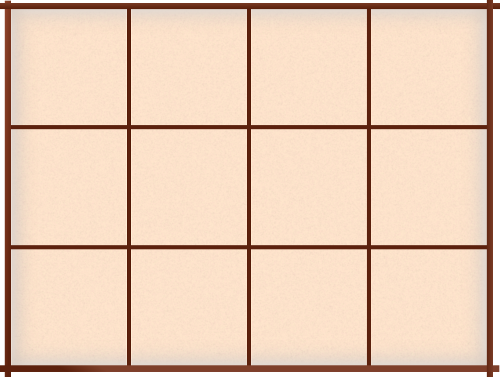
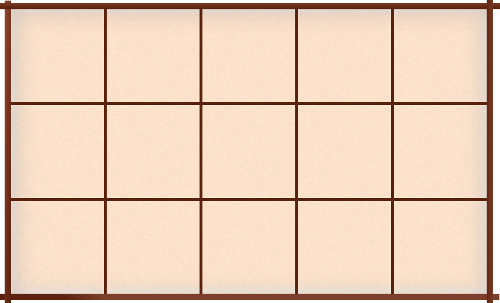
Convergence des niveaux de difficulté vers ScoLOMFR

Changed region(s): [[0.0, 0.0, 1.0, 1.0], [0.99, 0.9505, 1.0, 1.0]]

diff --git a/src/mainwindow.cpp b/src/mainwindow.cpp
@@ -89,7 +89,6 @@ MainWindow::MainWindow(QWidget *parent) :
     int desktop_height = widget->height();
     this->move((desktop_width-this->width())/2, (desktop_height-this->height())/2);
 
-    ui->btnNiveauBleu->hide();
     connect(ui->pageAbout, SIGNAL(signalAbeAproposBtnCloseClicked()), this, SLOT(slotMainWindowShowMainPage()),Qt::UniqueConnection);
 }
 
@@ -545,8 +544,9 @@ void MainWindow::_changeNiveau() {
     switch (m_niveau) {
         case 0 : actionDIMxDIM(3,4); break;
         case 1 : actionDIMxDIM(3,5); break;
-        case 2 : actionDIMxDIM(4,6); break;
-        case 3 : actionDIMxDIM(5,6); break;
+        case 2 : actionDIMxDIM(3,6); break;
+        case 3 : actionDIMxDIM(4,6); break;
+        case 4 : actionDIMxDIM(5,6); break;
     }
     ui->lblLevel->setPixmap(QPixmap(":/data_images/belt"+QString::number(m_niveau)));
     on_btnNiveauAnnuler_clicked();
@@ -573,25 +573,31 @@ void MainWindow::on_btnAbandonner_clicked()
     donneReponse();
 }
 
-void MainWindow::on_btnNiveauNoire_clicked()
+void MainWindow::on_btnNiveauTresDifficile_clicked()
+{
+    m_niveau = 4;
+    _changeNiveau();
+}
+
+void MainWindow::on_btnNiveauDifficile_clicked()
 {
     m_niveau = 3;
     _changeNiveau();
 }
 
-void MainWindow::on_btnNiveauMarron_clicked()
+void MainWindow::on_btnNiveauMoyen_clicked()
 {
     m_niveau = 2;
     _changeNiveau();
 }
 
-void MainWindow::on_btnNiveauOrange_clicked()
+void MainWindow::on_btnNiveauFacile_clicked()
 {
     m_niveau = 1;
     _changeNiveau();
 }
 
-void MainWindow::on_btnNiveauJaune_clicked()
+void MainWindow::on_btnNiveauTresFacile_clicked()
 {
     m_niveau = 0;
     _changeNiveau();

diff --git a/src/mainwindow.h b/src/mainwindow.h
@@ -130,10 +130,10 @@ private slots:
     void on_pushButton_clicked();
     void on_btnAbandonner_clicked();
     void on_btnAide_clicked();
-    void on_btnNiveauNoire_clicked();
-    void on_btnNiveauMarron_clicked();
-    void on_btnNiveauOrange_clicked();
-    void on_btnNiveauJaune_clicked();
+    void on_btnNiveauTresDifficile_clicked();
+    void on_btnNiveauDifficile_clicked();
+    void on_btnNiveauFacile_clicked();
+    void on_btnNiveauTresFacile_clicked();
     void on_btnNiveaux_clicked();
     void on_btnNiveauAnnuler_clicked();
 
@@ -149,6 +149,7 @@ private slots:
     /** Force l'affichage de la page principale */
     void slotMainWindowShowMainPage();
 
+    void on_btnNiveauMoyen_clicked();
 };
 
 #endif // MAINWINDOW_H
